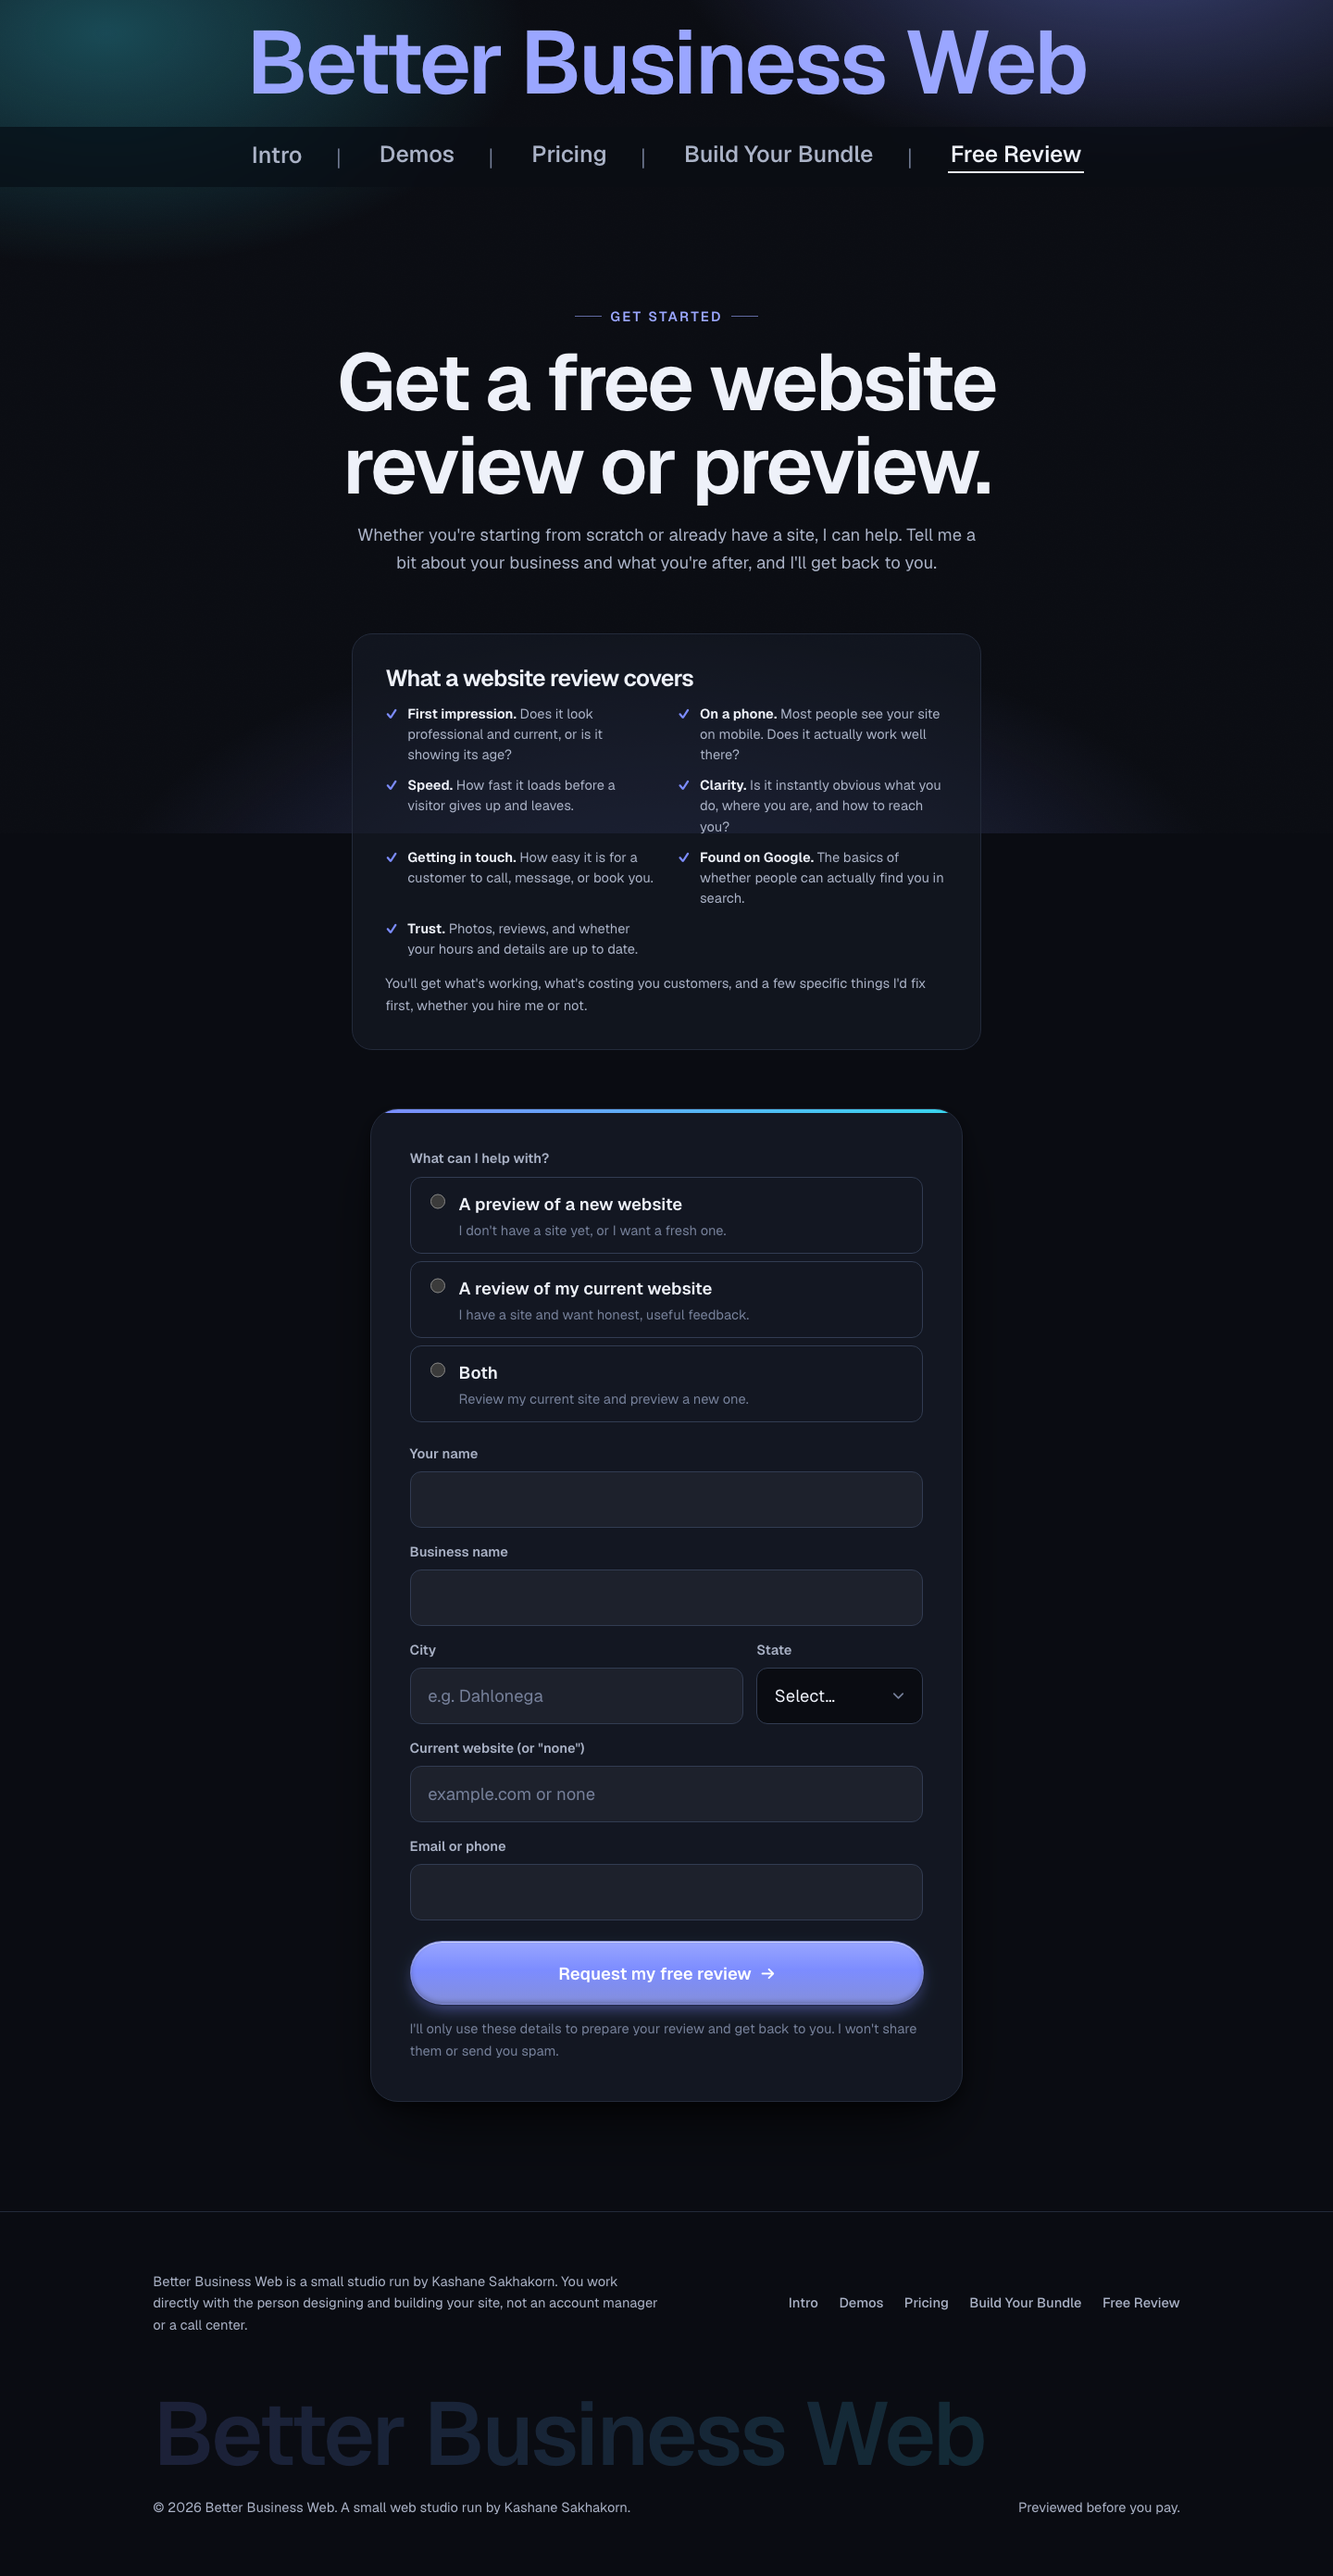
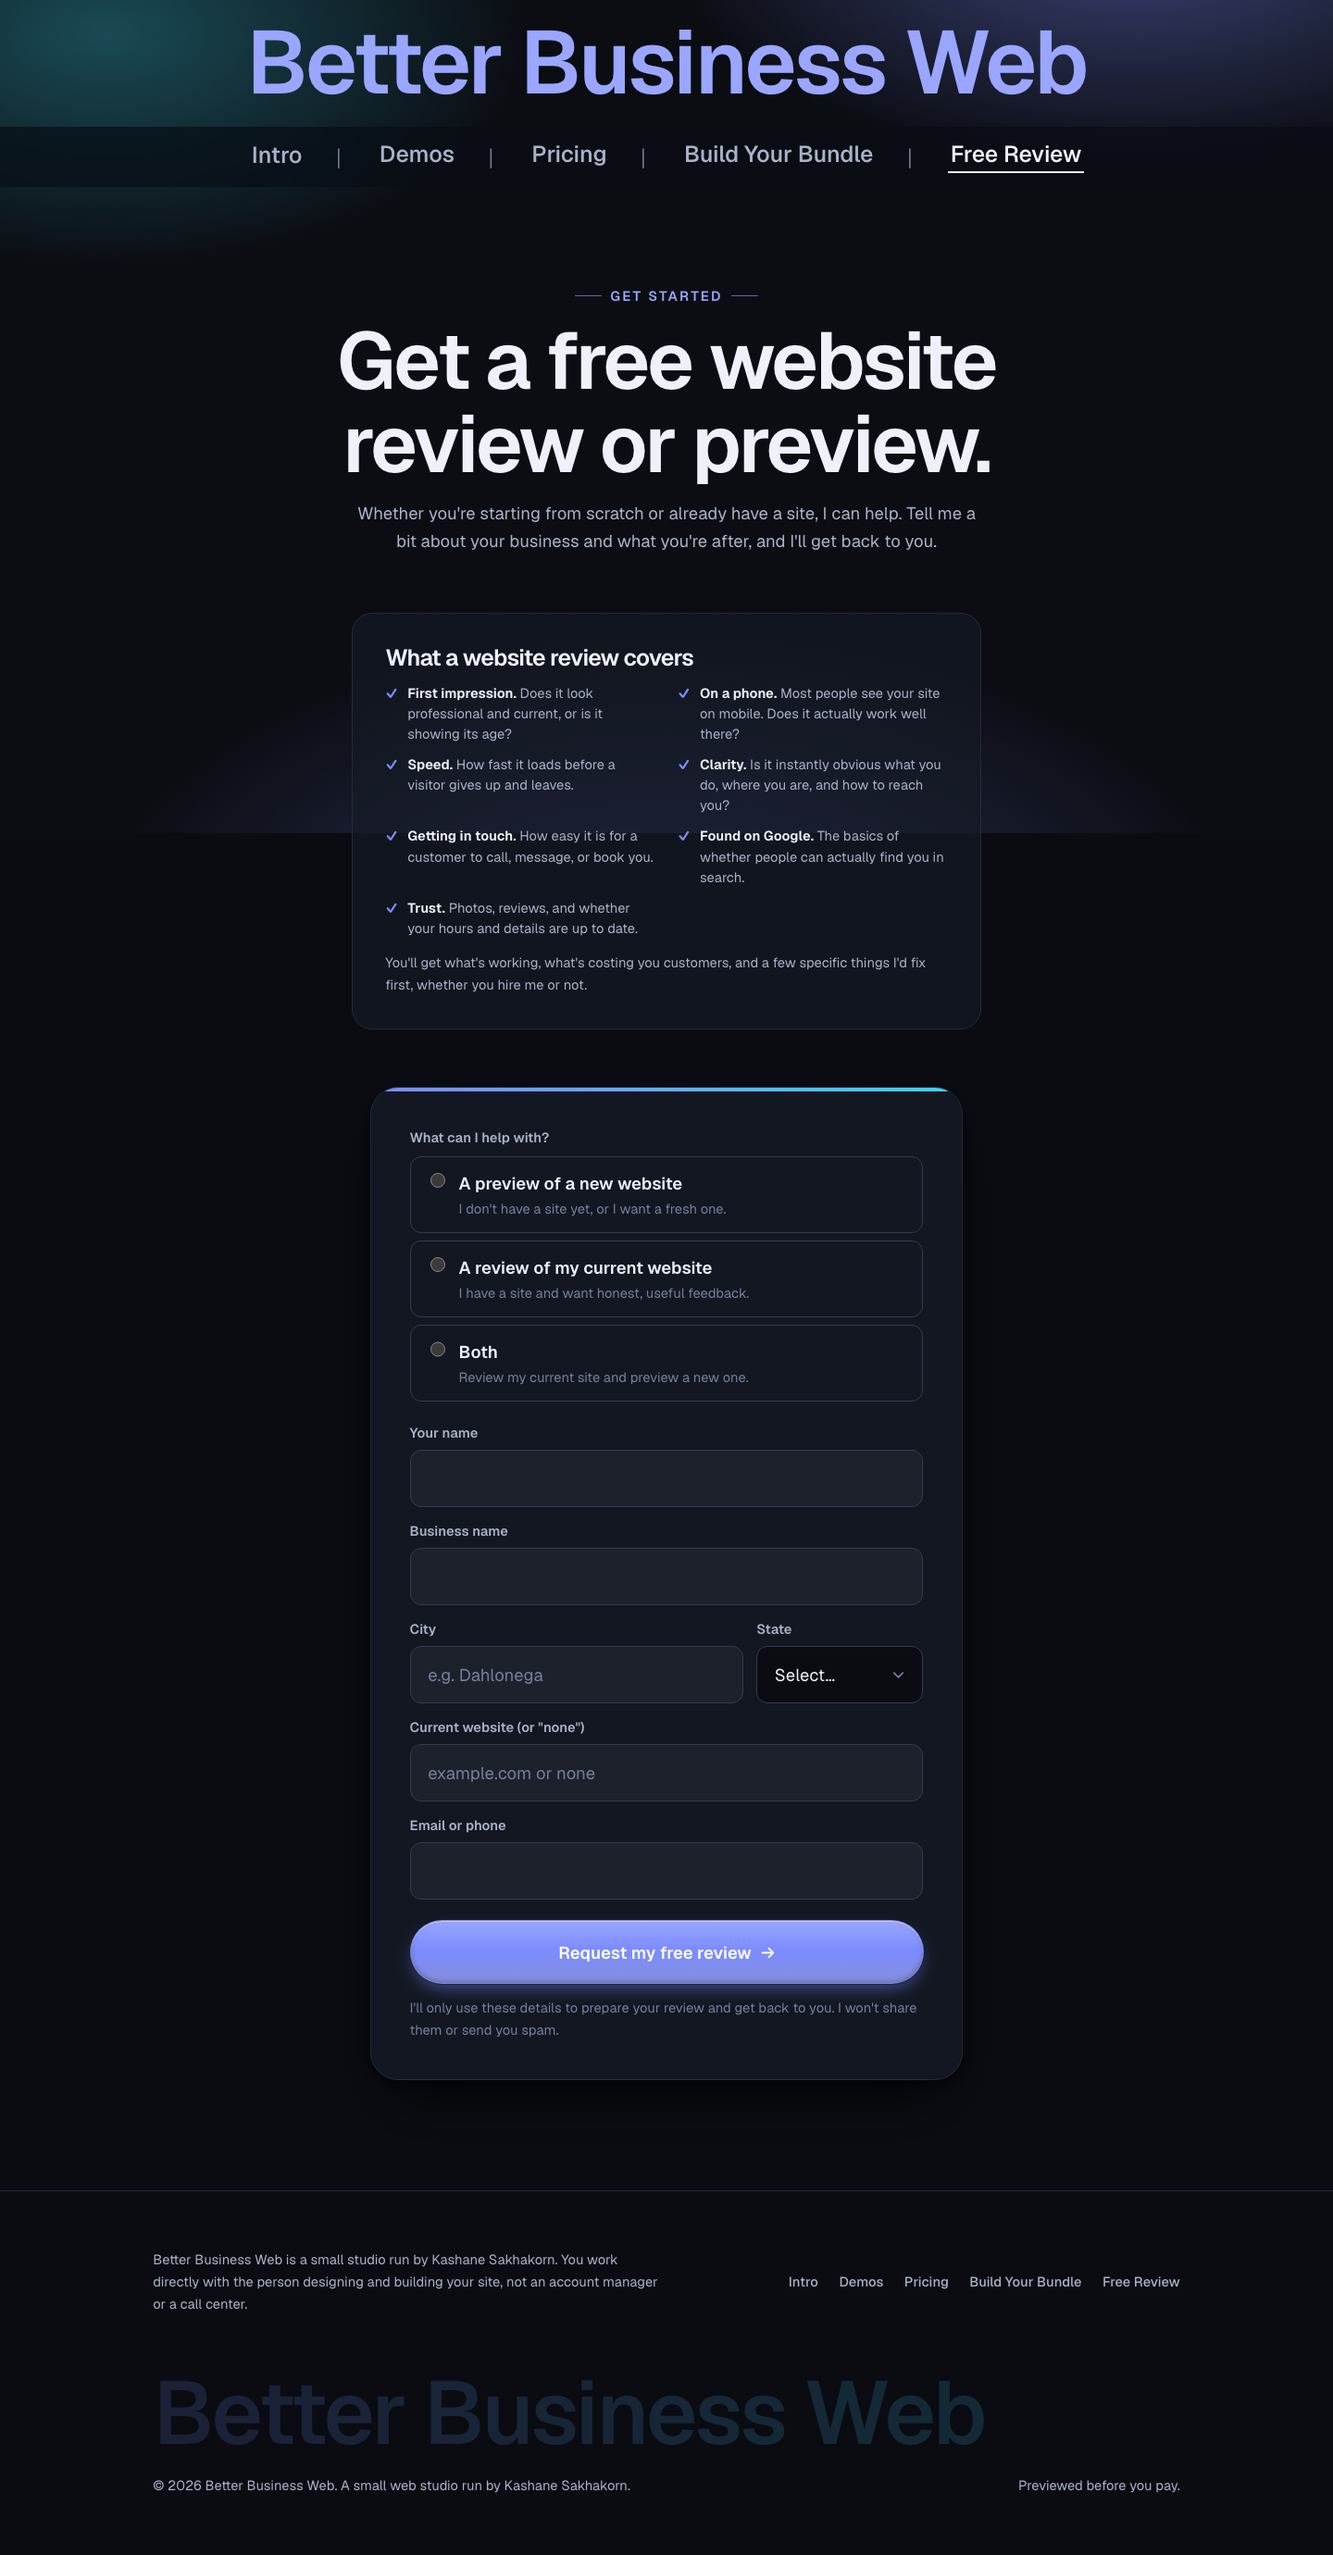
style(bbw): unify the nav→hero gap across interior pages; add Build eyebrow
Demos/Pricing/Free Review used .section (118px gap, a touch large) and Build
used a smaller wrapper (58px). Add a shared --page-top token + .section--top
helper (101px — just under the home hero's 110px) and apply it to all four.
The Build page also gains a "Pick & choose" eyebrow so its header matches the
other pages.

diff --git a/products/better-business-web/site/src/styles/global.css b/products/better-business-web/site/src/styles/global.css
@@ -43,6 +43,9 @@
   --space-md: 1.5rem;
   --space-lg: clamp(2rem, 1.2rem + 3vw, 4rem);
   --space-xl: clamp(3.5rem, 2rem + 6vw, 8rem);
+  /* Top gap from the nav to the first text on interior pages — tuned to sit just
+     under the home hero's gap. */
+  --page-top: clamp(2.6rem, 1.3rem + 5.5vw, 6rem);
   --radius: 14px;
   --radius-lg: 22px;
   --radius-xl: 30px;
@@ -119,6 +122,8 @@ p { margin: 0 0 var(--space-sm); }
 
 .container { width: 100%; max-width: var(--container); margin-inline: auto; padding-inline: clamp(1.1rem, 0.4rem + 3vw, 2.2rem); }
 .section { padding-block: var(--space-xl); position: relative; }
+/* First block on an interior page — tightens the nav→content gap to match home. */
+.section--top { padding-block-start: var(--page-top); }
 .section--panel { background: linear-gradient(180deg, var(--paper-2), color-mix(in srgb, var(--paper-2) 50%, var(--paper))); border-block: 1px solid var(--line); }
 .center { text-align: center; }
 .measure { max-width: 56ch; }
